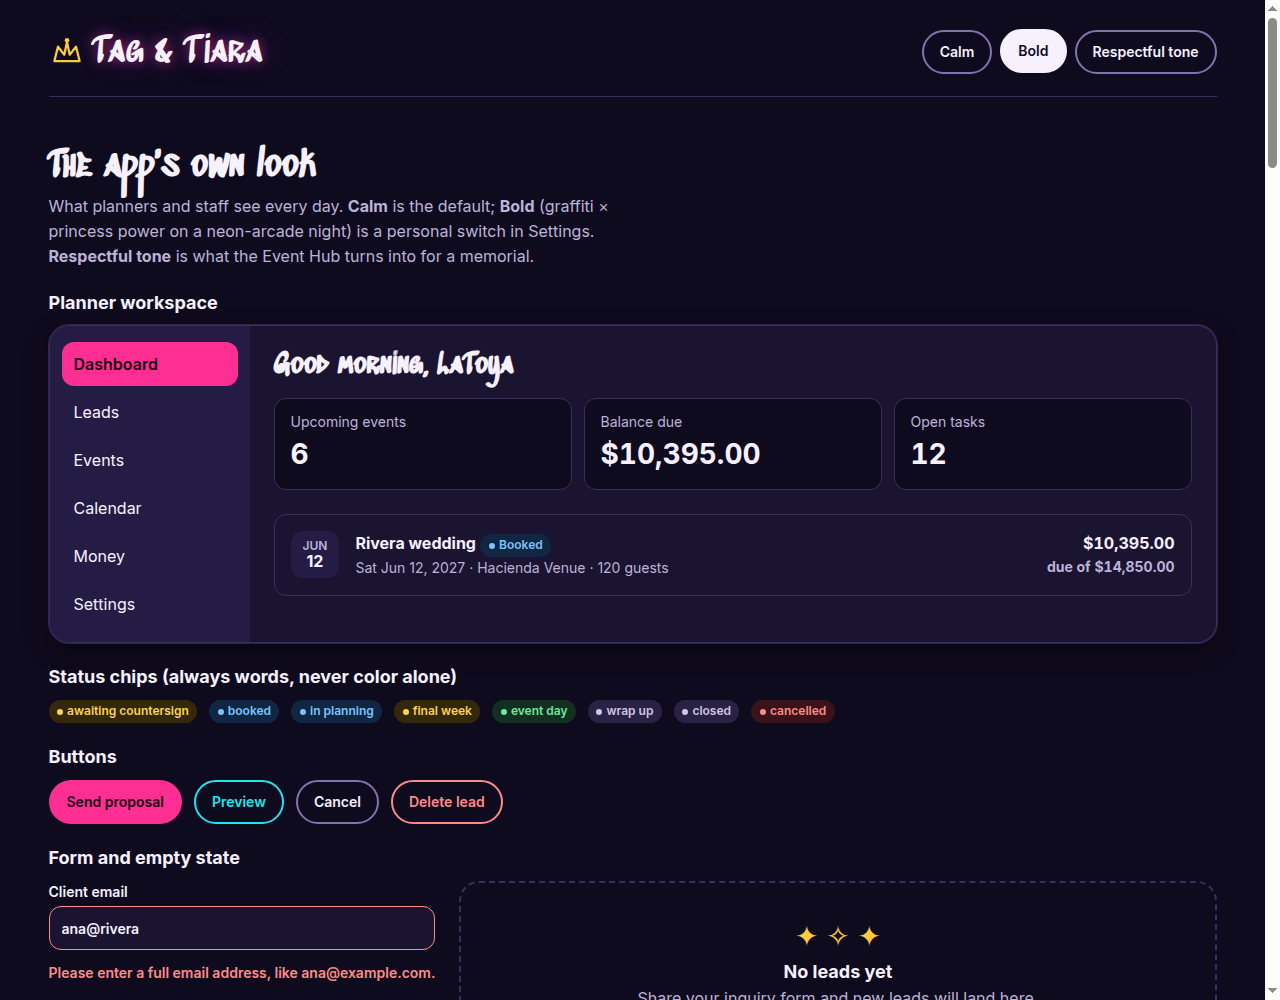
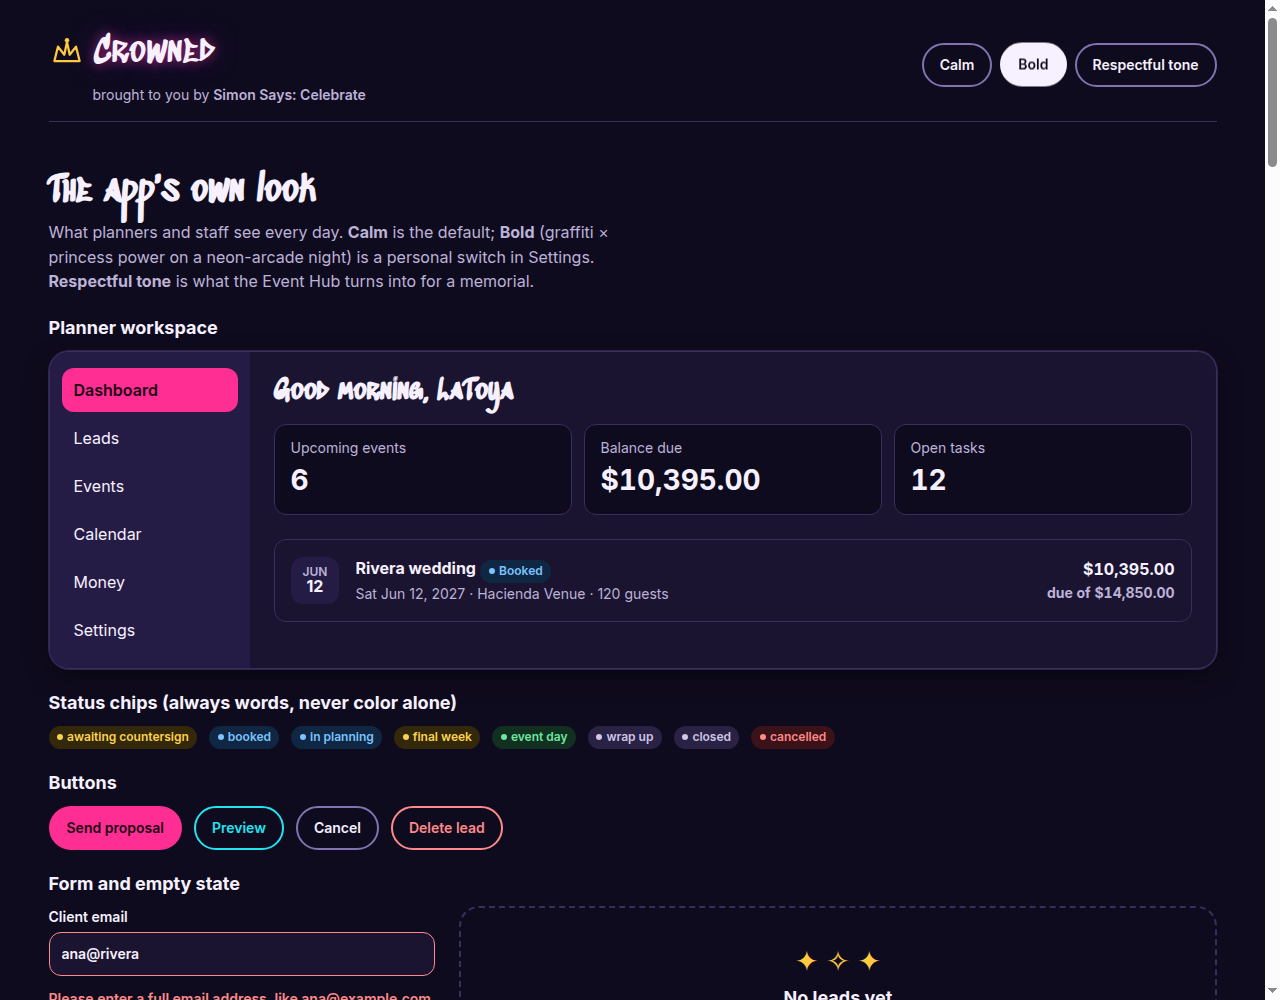
Name the app Crowned, brought to you by Simon Says: Celebrate
APP_NAME, BRAND_NAME and APP_BYLINE in themes.js; wordmark lockup with a
small body-font byline in the gallery; style guide name section, nav and
open questions updated; page title; screenshots re-taken.

diff --git a/app_outline/style_guide/theme_gallery.html b/app_outline/style_guide/theme_gallery.html
@@ -30,7 +30,10 @@
     .wordmark { display: flex; align-items: center; gap: var(--space-2); font-family: var(--font-display);
                 font-size: var(--text-3xl); color: var(--color-text); text-shadow: var(--glow); }
     .wordmark svg { width: 2.25rem; height: 2.25rem; color: var(--color-gold); opacity: max(var(--sparkle-opacity), .9); }
-    .wordmark .amp { color: var(--color-accent); }
+    .lockup { display: flex; flex-direction: column; gap: var(--space-1); }
+    .byline { margin: 0; padding-left: calc(2.25rem + var(--space-2)); font-family: var(--font-body);
+              font-size: var(--text-sm); color: var(--color-muted); }
+    .byline strong { font-weight: 600; }
     .switches { display: flex; flex-wrap: wrap; gap: var(--space-2); }
 
     /* Buttons */
@@ -130,9 +133,12 @@
 <body>
 <div class="wrap">
   <header class="masthead">
-    <div class="wordmark" aria-label="Tag and Tiara">
+    <div class="lockup">
+    <div class="wordmark">
       <svg viewBox="0 0 40 40" aria-hidden="true"><path d="M6 30l4-16 7 9 3-14 3 14 7-9 4 16z" fill="none" stroke="currentColor" stroke-width="2.5" stroke-linejoin="round"/><circle cx="20" cy="7" r="2.5" fill="currentColor"/></svg>
-      <span id="app-name">Tag &amp; Tiara</span>
+      <span id="app-name">Crowned</span>
+    </div>
+    <p class="byline">brought to you by <strong id="brand-name">Simon Says: Celebrate</strong></p>
     </div>
     <div class="switches" role="group" aria-label="Preview settings">
       <button class="btn btn-ghost" id="mode-calm" aria-pressed="true">Calm</button>
@@ -206,10 +212,11 @@
 </div>
 
 <script type="module">
-  import { APP_NAME, THEMES, EVENT_STATUS_STYLE, themeToCssVars } from '../../src/styles/themes.js';
+  import { APP_NAME, BRAND_NAME, THEMES, EVENT_STATUS_STYLE, themeToCssVars } from '../../src/styles/themes.js';
   import { contrast } from '../../src/styles/contrast.js';
 
   document.getElementById('app-name').textContent = APP_NAME;
+  document.getElementById('brand-name').textContent = BRAND_NAME;
 
   // ---- Status chips from the same map the app will use ----
   document.getElementById('status-row').innerHTML = Object.entries(EVENT_STATUS_STYLE)

diff --git a/src/styles/themes.js b/src/styles/themes.js
@@ -21,8 +21,10 @@
 //   respectful = no confetti, sparkle, glow, sound or motion, anywhere (style guide §11)
 // =====================================================================
 
-// Working name until the owner picks one (style guide: "Open questions").
-export const APP_NAME = 'Tag & Tiara';
+// The app's name and its maker (style guide §1). Use these; never type the name by hand.
+export const APP_NAME = 'Crowned';
+export const BRAND_NAME = 'Simon Says: Celebrate';
+export const APP_BYLINE = `brought to you by ${BRAND_NAME}`;
 
 // Small repeating background patterns, drawn with simple shapes (all original art).
 // {c} is replaced with the theme's accent color. Used at low opacity, decoration only.

diff --git a/index.html b/index.html
@@ -4,7 +4,7 @@
     <meta charset="UTF-8" />
     <link rel="icon" type="image/svg+xml" href="/favicon.svg" />
     <meta name="viewport" content="width=device-width, initial-scale=1.0" />
-    <title>my-event-app</title>
+    <title>Crowned</title>
   </head>
   <body>
     <div id="root"></div>

diff --git a/app_outline/style_guide.md b/app_outline/style_guide.md
@@ -1,4 +1,6 @@
-# Style Guide: Tag & Tiara *(working name)*
+# Style Guide: Crowned
+
+*Brought to you by Simon Says: Celebrate*
 
 The look and feel of the event planner app. **The real values live in code**, and this guide explains how to use them:
 
@@ -31,16 +33,19 @@ Format modelled on [`style_guide_example.md`](style_guide_example.md).
   - **Guests:** a beautiful event page and an RSVP in under a minute, with no account.
 
 ### Name and wordmark
-The working name is **Tag & Tiara**: a graffiti *tag* plus a princess *tiara*.
+The app is **Crowned**, brought to you by **Simon Says: Celebrate** (the owner's business brand).
 
-| Option | Why |
-|---|---|
-| **Tag & Tiara** *(working name)* | Both halves of the vibe; works in Calm and Bold |
-| Crowned | Short "queen energy"; good for an app icon |
-| Confetti Crown | Celebratory, and fits every event type |
-| Party Royale | Arcade/battle-royale wink plus royalty |
+```
+👑 Crowned                                  ← --font-display at wordmark size; crown in --color-gold
+   brought to you by Simon Says: Celebrate  ← Inter, --text-sm (14px), --color-muted; brand name semibold
+```
 
-The wordmark is the name in `--font-display` with a small crown icon in `--color-gold`. In Bold mode it gets the neon `--glow`. The name lives in one constant (`APP_NAME` in `themes.js`). **Check trademark and domain availability before launch.**
+- **The name** uses `--font-display` with a small crown icon in `--color-gold`. In Bold mode it gets the neon `--glow`.
+- **The byline** is always smaller than the name and always in the body font (never a display font: those start at 24px). It uses `--color-muted`, which passes 4.5:1 in every mode. On a phone it sits on its own line under the name.
+- **Where the full lockup shows:** Crowned's own pages: the landing page, sign-in and sign-up, the sidebar footer in the planner workspace, Settings → About, and the footer of platform emails.
+- **Where it doesn't:** client portal and guest pages carry the *planner's* brand (§12), so they get only a small "Powered by Crowned" footer. That also keeps "Celebrate" off memorial and vigil pages.
+- **In code:** `APP_NAME`, `BRAND_NAME` and `APP_BYLINE` in `themes.js`. Never type the name by hand.
+- Other names considered: Tag & Tiara, Confetti Crown, Party Royale.
 
 ## 2. How the look is layered
 
@@ -157,10 +162,10 @@ Build these once, as reusable React components, and use them everywhere.
 
 ## 7. Navigation
 
-- **Planner desktop:** sidebar with the wordmark at the top, then Dashboard, Leads, Events, Calendar, Money, Messages and Settings. The current page uses the accent background and `aria-current="page"`.
+- **Planner desktop:** sidebar with the wordmark at the top, then Dashboard, Leads, Events, Calendar, Money, Messages and Settings, and the byline ("brought to you by Simon Says: Celebrate") in the sidebar footer. The current page uses the accent background and `aria-current="page"`.
 - **Planner phone:** a bottom bar with 4 items plus **More (n)**; the active item is moved into view if it would be hidden.
 - **Client portal:** a top bar with the planner's logo, then tabs (Overview, Proposal, Payments, Planning, Guests, Mood Board, Messages). Locked tabs (before the deposit) show a lock icon and the words "Unlocks after your deposit". They are never just greyed out.
-- **Guest pages:** no app navigation, just the event's sections (Details, Schedule, RSVP, Registry) as in-page links.
+- **Guest pages:** no app navigation, just the event's sections (Details, Schedule, RSVP, Registry) as in-page links. The footer shows the planner's logo, then a small "Powered by Crowned".
 - Keep navigation identical across pages, and keep search one tap away for planners.
 
 ## 8. Motion
@@ -282,7 +287,7 @@ Build in this order:
 
 ## 15. Open questions
 
-- **App name:** pick from the four options in §1 (the working name is Tag & Tiara), then check trademarks and domains.
+- **Name check before launch:** *Crowned* and *Simon Says: Celebrate* are both common phrases. Check trademarks (USPTO search), domains and app-store names before going public.
 - **Virtual events:** the data model has no "virtual" flag or meeting link (`events` has only venue fields). That needs a user story (for example "As a planner, I want to add a stream or game link so remote guests can join") and a schema change before the virtual themes are fully usable.
 - **Spanish copy** for each theme's `copy` strings (NFR-10).
 - **Photo booth overlays** (P3) will reuse each theme's colors, display font and motif; their design is still to come.

diff --git a/CLAUDE.md b/CLAUDE.md
@@ -79,7 +79,7 @@ Supabase Postgres, verified on Postgres 16 (CI) and 18. Read `erd/README.md` and
 ## Style system (`app_outline/style_guide.md`)
 
 - **Layers:** app mode (Calm default / Bold opt-in, `data-mode` on `<html>`) → business branding (NFR-15) → per-event theme (`events.theme` stores a theme id) → respectful tone (`data-tone="respectful"`, automatic for `tone: 'respectful'` themes and `memorial` events, also quiets the planner's Event Hub for that event).
-- **Code:** `src/styles/tokens.css` (app tokens; keep its `/* @mode … */` comments, the contrast script parses them), `src/styles/themes.js` (27 event themes as data, `themeToCssVars`, status-chip maps, `APP_NAME`), `src/styles/contrast.js`, fonts in `src/assets/fonts/` (self-hosted, licences alongside).
+- **Code:** `src/styles/tokens.css` (app tokens; keep its `/* @mode … */` comments, the contrast script parses them), `src/styles/themes.js` (27 event themes as data, `themeToCssVars`, status-chip maps, `APP_NAME` / `BRAND_NAME` / `APP_BYLINE`: the app is "Crowned", brought to you by Simon Says: Celebrate), `src/styles/contrast.js`, fonts in `src/assets/fonts/` (self-hosted, licences alongside).
 - **Rules:** components use CSS variables only (never raw hex); display fonts only for headings ≥ 24px; errors/money/legal text never playful. Adding a theme = one object in `themes.js`, then `npm run check:contrast` (also runs in CI and fails below WCAG AA).
 - **Preview:** `python3 -m http.server 8767` from the repo root → `/app_outline/style_guide/theme_gallery.html` (imports the real tokens and themes). Re-take its `theme_gallery_*.png` screenshots when the look changes.
 
